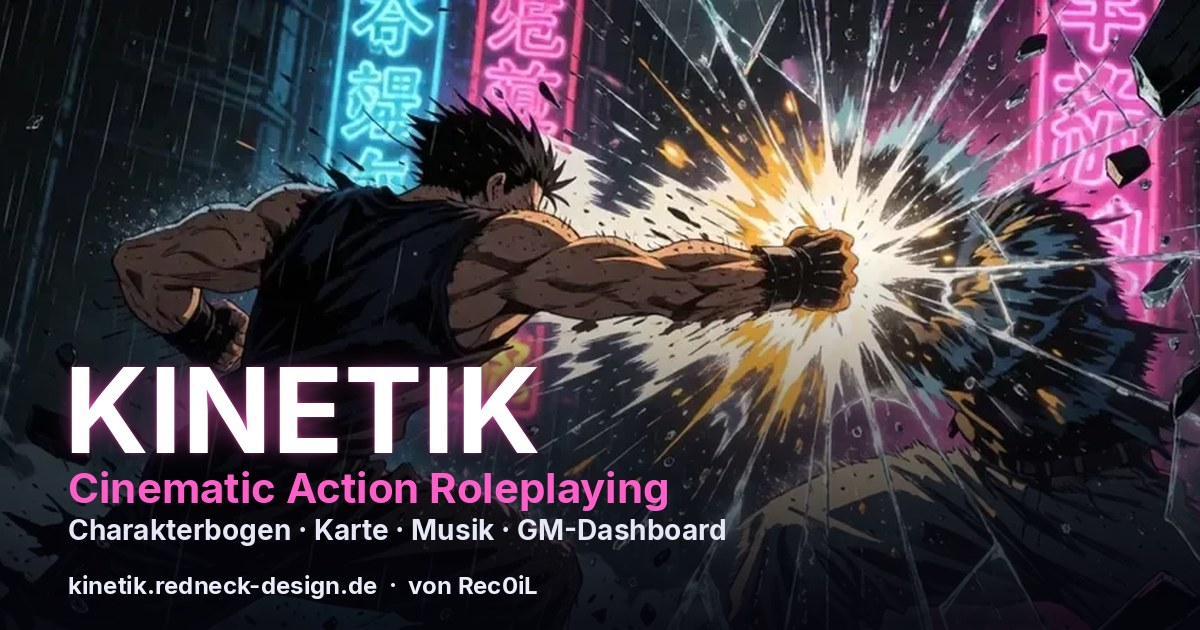
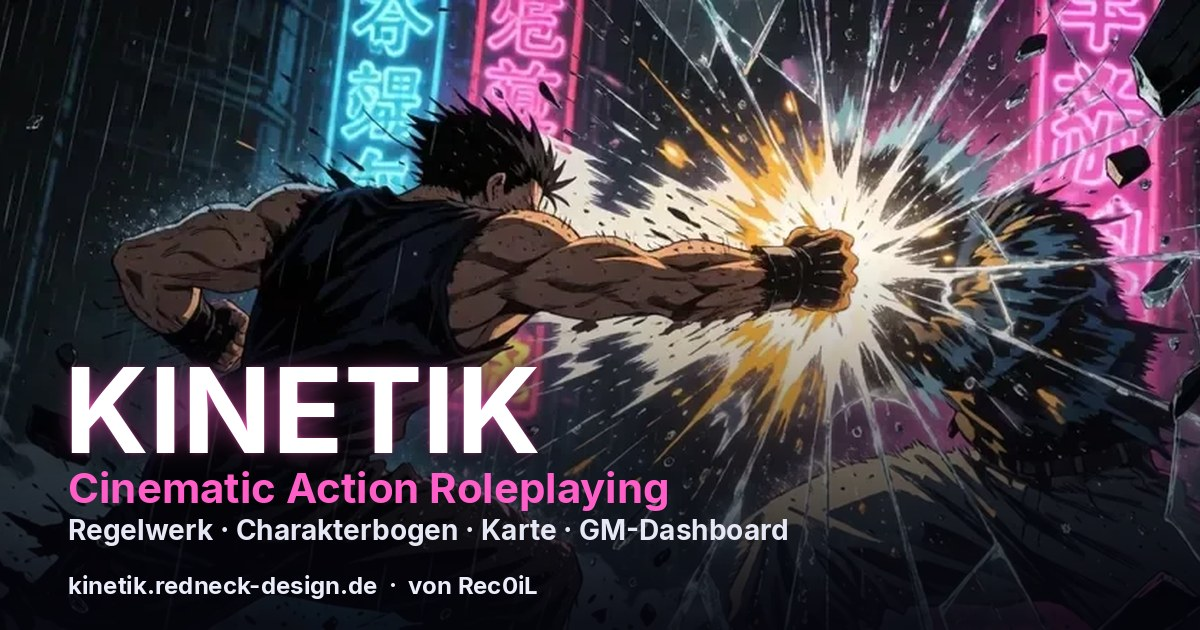
Link-Vorschau: Regelwerk statt Musik in Karte und Texten
Die Karte nennt Regelwerk, Charakterbogen, Karte und GM-Dashboard. Beschreibung und Titel stellen das Regelwerk voran, Musik entfaellt als Nebenfunktion.

Changed region(s): [[0.0617, 0.8143, 0.6783, 0.8746]]

diff --git a/tools/kinetik-vtt/index.html b/tools/kinetik-vtt/index.html
@@ -4,16 +4,16 @@
     <meta charset="UTF-8" />
     <meta name="viewport" content="width=device-width, initial-scale=1, viewport-fit=cover" />
     <meta name="theme-color" content="#0b0c10" />
-    <title>KINETIK – Cinematic Action Roleplaying im Browser</title>
-    <meta name="description" content="Charakterbogen, Karte, Musik, Würfel und GM-Dashboard für das 2W6-Clash-System mit Gun-Fu und Kampfkunst. Kostenlos im Browser, ohne Anmeldung." />
+    <title>KINETIK – Regelwerk für Cinematic Action Roleplaying</title>
+    <meta name="description" content="Das Regelwerk für Cinematic Action Roleplaying mit Gun-Fu und Kampfkunst (2W6-Clash-System), dazu Charakterbogen, Karte, Würfel und GM-Dashboard. Kostenlos im Browser, ohne Anmeldung." />
     <link rel="canonical" href="https://kinetik.redneck-design.de/" />
 
     <!-- Link-Vorschau (Discord, WhatsApp, Telegram, Mastodon …): feste, absolute Adressen, kein JavaScript nötig -->
     <meta property="og:type" content="website" />
     <meta property="og:site_name" content="KINETIK" />
     <meta property="og:locale" content="de_DE" />
-    <meta property="og:title" content="KINETIK – Cinematic Action Roleplaying" />
-    <meta property="og:description" content="Charakterbogen, Karte, Musik, Würfel und GM-Dashboard für das 2W6-Clash-System mit Gun-Fu und Kampfkunst. Kostenlos im Browser, ohne Anmeldung." />
+    <meta property="og:title" content="KINETIK – Regelwerk für Cinematic Action Roleplaying" />
+    <meta property="og:description" content="Das Regelwerk für Cinematic Action Roleplaying mit Gun-Fu und Kampfkunst (2W6-Clash-System), dazu Charakterbogen, Karte, Würfel und GM-Dashboard. Kostenlos im Browser, ohne Anmeldung." />
     <meta property="og:url" content="https://kinetik.redneck-design.de/" />
     <meta property="og:image" content="https://kinetik.redneck-design.de/og.jpg" />
     <meta property="og:image:type" content="image/jpeg" />
@@ -21,8 +21,8 @@
     <meta property="og:image:height" content="630" />
     <meta property="og:image:alt" content="KINETIK: ein Faustschlag zersplittert Glas im Neon-Regen einer Großstadt" />
     <meta name="twitter:card" content="summary_large_image" />
-    <meta name="twitter:title" content="KINETIK – Cinematic Action Roleplaying" />
-    <meta name="twitter:description" content="Charakterbogen, Karte, Musik, Würfel und GM-Dashboard für das 2W6-Clash-System mit Gun-Fu und Kampfkunst. Kostenlos im Browser, ohne Anmeldung." />
+    <meta name="twitter:title" content="KINETIK – Regelwerk für Cinematic Action Roleplaying" />
+    <meta name="twitter:description" content="Das Regelwerk für Cinematic Action Roleplaying mit Gun-Fu und Kampfkunst (2W6-Clash-System), dazu Charakterbogen, Karte, Würfel und GM-Dashboard. Kostenlos im Browser, ohne Anmeldung." />
     <meta name="twitter:image" content="https://kinetik.redneck-design.de/og.jpg" />
     <link rel="icon" href="./favicon.svg" type="image/svg+xml" />
   </head>
